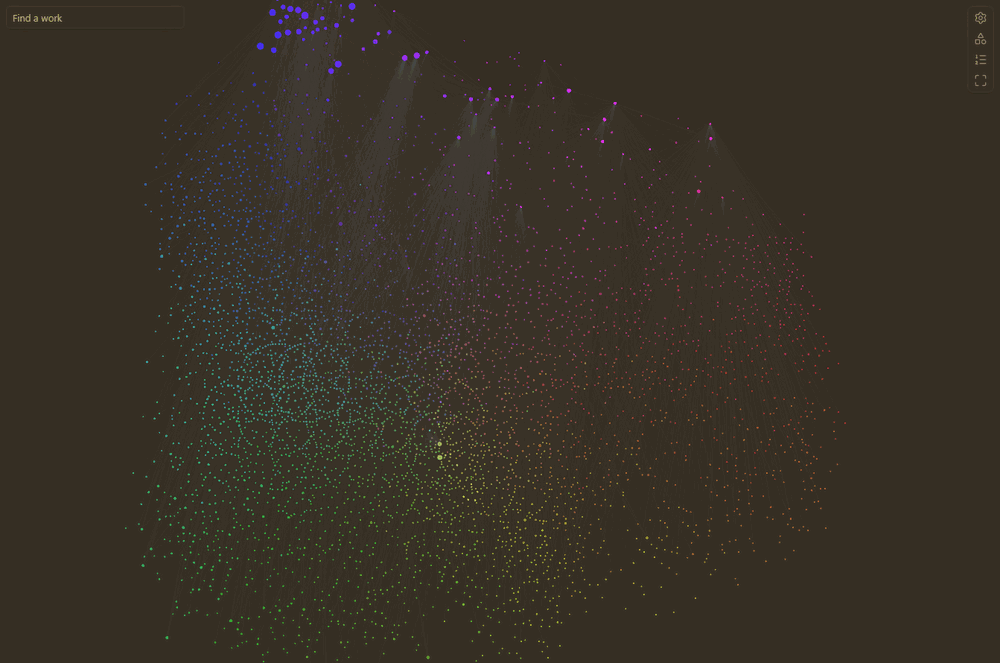
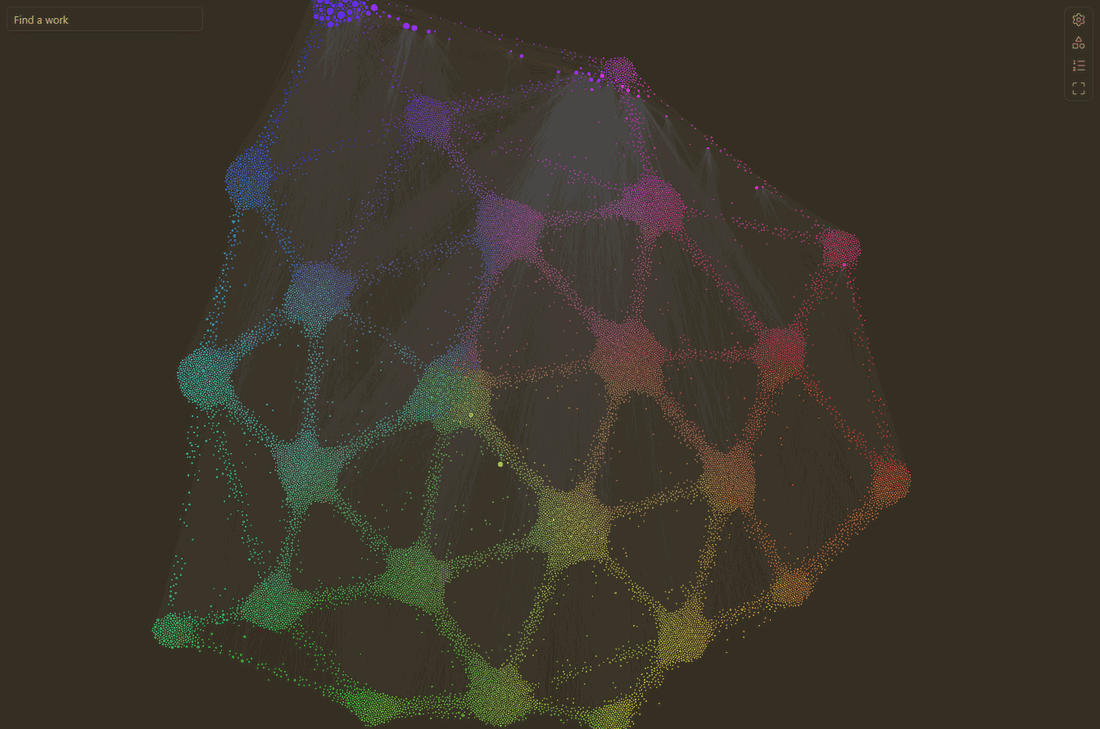
Center the regions on their balls, and show them in the README
A region was centered on the mean of its works and wide enough for nine
in ten of them, so the works on the bridges to other groups pulled it
off its ball and widened it. It is now centered on the median of its
works on each axis, and wide enough for four in five of them.

The README shows the Meaning layout's balls of meaning, and the same
graph with its named regions.

diff --git a/src/graphView.ts b/src/graphView.ts
@@ -1233,8 +1233,9 @@ export class LiteratureGraphView extends ItemView {
 	}
 
 	/**
-	 * Fits each region to its works where they are now: centered on them, and
-	 * wide enough for nine in ten of them (a few strays do not widen it). At
+	 * Fits each region to its works where they are now: centered on the
+	 * middle of the group, and wide enough for four in five of its works (the
+	 * works between groups do not widen it). At
 	 * most four times a second; returns whether to come back (the works move).
 	 */
 	private placeRegions(now: number): boolean {
@@ -1247,31 +1248,29 @@ export class LiteratureGraphView extends ItemView {
 		if (this.idle.level > 0) return false;
 		if (now - this.regionsPlacedAt < 250) return this.regionsPlacedAt > 0;
 		this.regionsPlacedAt = now;
+		// The middle of a group: the median of its works on each axis, so the
+		// works on the bridges to other groups do not pull it off its ball.
 		const count = regions.parts.length;
-		const sums = Array.from({ length: count }, () => [0, 0, 0]);
-		this.nodes.forEach((n, i) => {
-			const s = sums[regions.group[i] ?? -1];
-			if (!s || n.x === undefined || n.y === undefined) return;
-			s[0] = (s[0] ?? 0) + n.x;
-			s[1] = (s[1] ?? 0) + n.y;
-			s[2] = (s[2] ?? 0) + 1;
-		});
-		const distances: number[][] = Array.from({ length: count }, () => []);
+		const xs: number[][] = Array.from({ length: count }, () => []);
+		const ys: number[][] = Array.from({ length: count }, () => []);
 		this.nodes.forEach((n, i) => {
 			const g = regions.group[i] ?? -1;
-			const s = sums[g];
-			if (!s || !s[2] || n.x === undefined || n.y === undefined) return;
-			distances[g]?.push(Math.hypot(n.x - (s[0] ?? 0) / s[2], n.y - (s[1] ?? 0) / s[2]));
+			if (g < 0 || g >= count || n.x === undefined || n.y === undefined) return;
+			xs[g]?.push(n.x);
+			ys[g]?.push(n.y);
 		});
+		const median = (values: number[]) => values.sort((a, b) => a - b)[Math.floor(values.length / 2)] ?? 0;
 		regions.parts.forEach(({ circle, label, color }, g) => {
-			const s = sums[g] ?? [0, 0, 0];
-			const d = (distances[g] ?? []).sort((a, b) => a - b);
+			const gx = xs[g] ?? [];
+			const gy = ys[g] ?? [];
 			circle.clear();
-			label.visible = d.length > 0;
-			if (d.length === 0) return;
-			const cx = (s[0] ?? 0) / (s[2] || 1);
-			const cy = (s[1] ?? 0) / (s[2] || 1);
-			const r = (d[Math.floor(d.length * 0.9)] ?? d[d.length - 1] ?? 0) + label.style.fontSize * 0.3;
+			label.visible = gx.length > 0;
+			if (gx.length === 0) return;
+			const cx = median([...gx]);
+			const cy = median([...gy]);
+			const d = gx.map((x, j) => Math.hypot(x - cx, (gy[j] ?? 0) - cy)).sort((a, b) => a - b);
+			// Wide enough for four in five of its works.
+			const r = (d[Math.floor(d.length * 0.8)] ?? d[d.length - 1] ?? 0) + label.style.fontSize * 0.3;
 			circle.circle(cx, cy, r).fill({ color, alpha: 0.05 }).stroke({ width: Math.max(2, r / 120), color, alpha: 0.45 });
 			label.position.set(cx, cy - r - label.style.fontSize * 0.15);
 		});

diff --git a/README.md b/README.md
@@ -4,9 +4,13 @@ An Obsidian plugin for literature notes written in Markdown (for example, papers
 
 Explore how the works of your vault cite each other, and the works outside it that they cite, in a panel and a graph view of their own, built from the reference lists of your notes, from citation links and from OpenAlex.
 
-![The works of a vault and the works they cite, placed and colored by their meaning](images/meaning.png)
+![The works of a vault and the works they cite, gathered in balls of one meaning](images/meaning.png)
 
-*About 4,900 works: 112 literature notes and the works they cite, colored and placed by what they are about (the **Meaning** layout).*
+*About 20,000 works: 112 literature notes and the works they cite, colored and placed by what they are about (the **Meaning** layout). Works of one meaning gather in a ball; works between two meanings form bridges between their balls.*
+
+![The same graph with the named regions of meaning](images/regions.png)
+
+*The same graph with **Regions** on: each group of meaning named by the term most typical of its works.*
 
 | Hover a work to see what it cites | Islands: communities of citations |
 |---|---|
